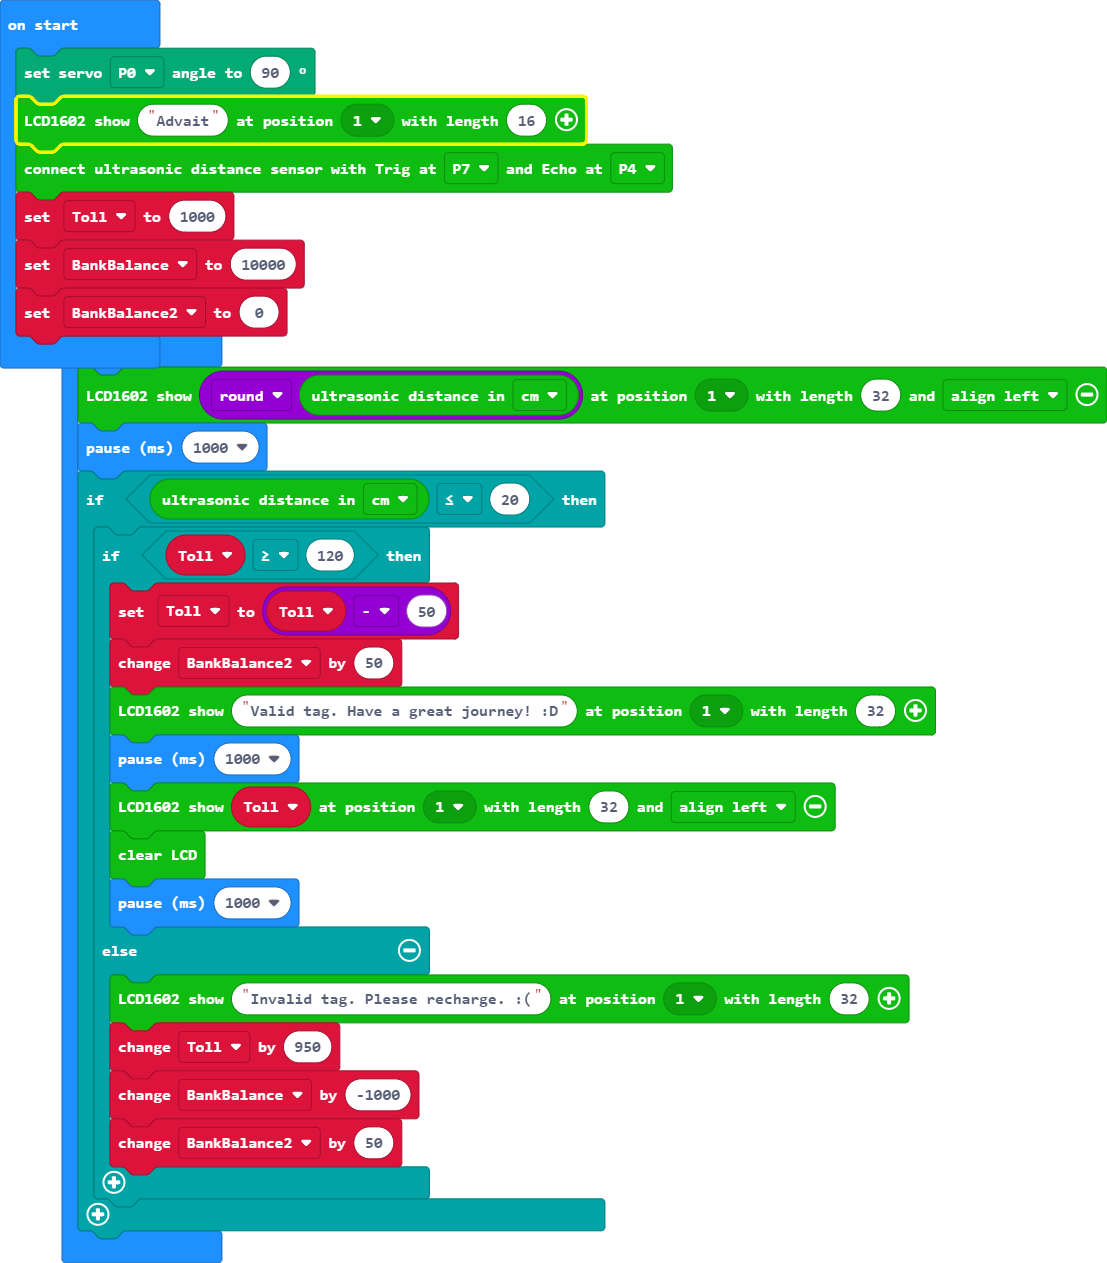
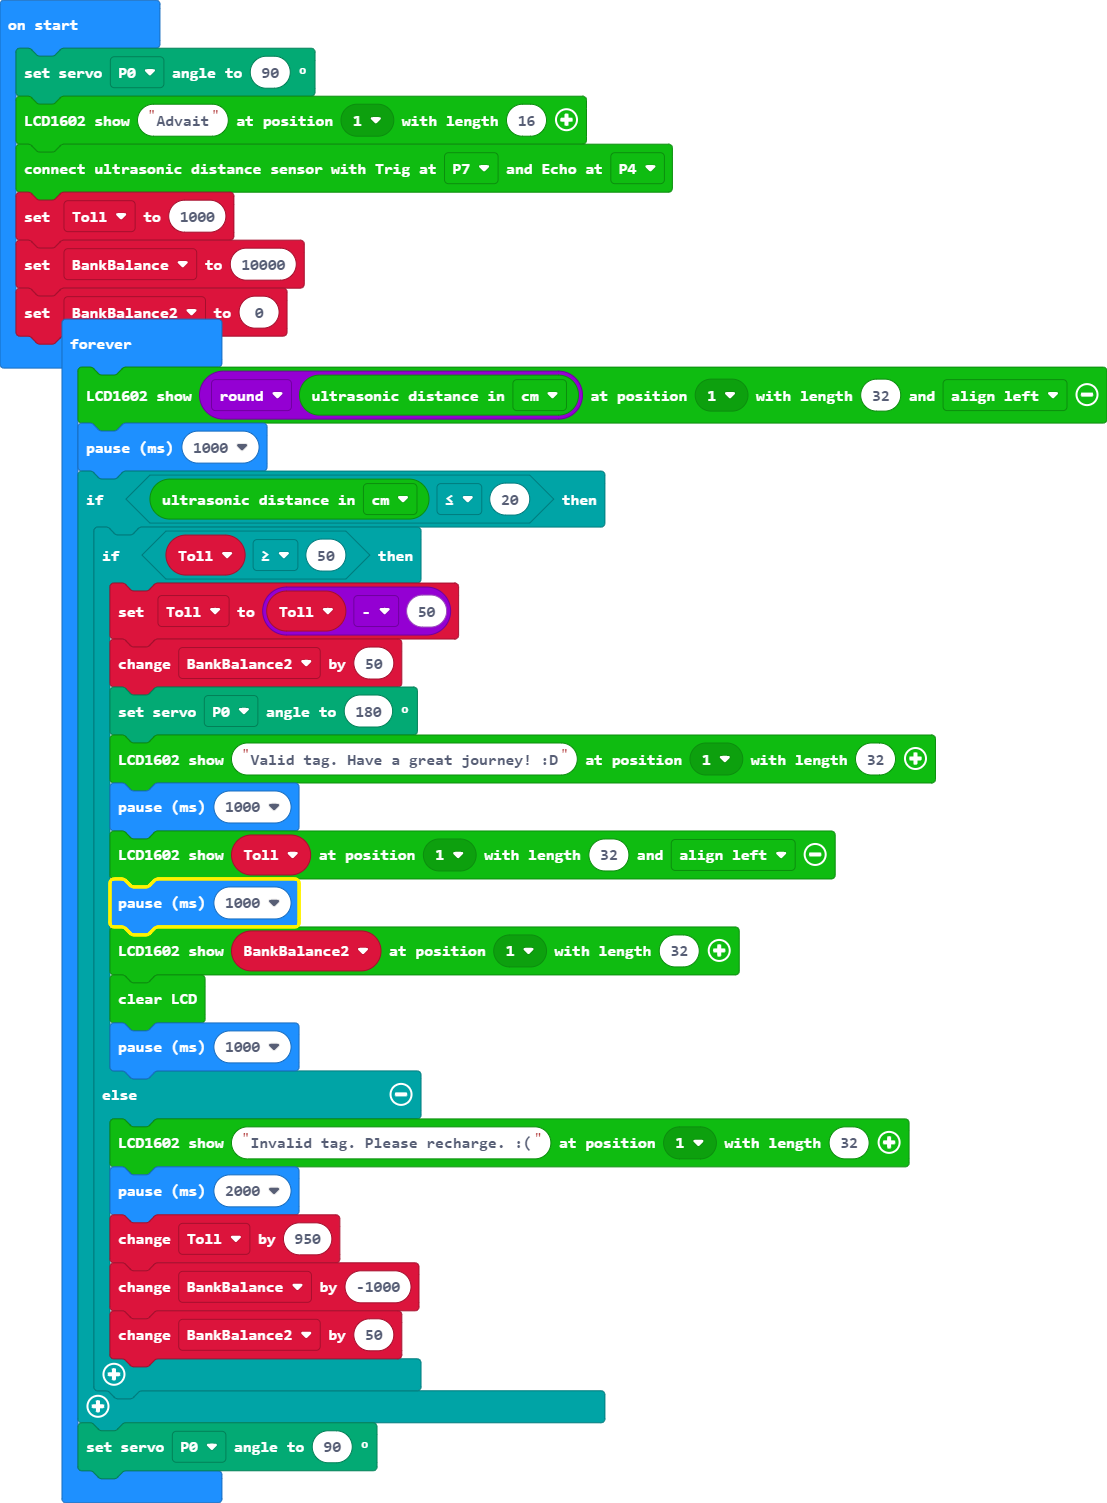
Update main.blocks, main.ts

diff --git a/main.ts b/main.ts
@@ -8,19 +8,24 @@ basic.forever(function () {
     makerbit.showStringOnLcd1602("" + (Math.round(makerbit.getUltrasonicDistance(DistanceUnit.CM))), makerbit.position1602(LcdPosition1602.Pos1), 32, TextOption.AlignLeft)
     basic.pause(1000)
     if (makerbit.getUltrasonicDistance(DistanceUnit.CM) <= 20) {
-        if (Toll >= 120) {
+        if (Toll >= 50) {
             Toll = Toll - 50
             BankBalance2 += 50
+            servos.P0.setAngle(180)
             makerbit.showStringOnLcd1602("Valid tag. Have a great journey! :D", makerbit.position1602(LcdPosition1602.Pos1), 32)
             basic.pause(1000)
             makerbit.showStringOnLcd1602("" + (Toll), makerbit.position1602(LcdPosition1602.Pos1), 32, TextOption.AlignLeft)
+            basic.pause(1000)
+            makerbit.showStringOnLcd1602("" + (BankBalance2), makerbit.position1602(LcdPosition1602.Pos1), 32)
             I2C_LCD1602.clear()
             basic.pause(1000)
         } else {
             makerbit.showStringOnLcd1602("Invalid tag. Please recharge. :(", makerbit.position1602(LcdPosition1602.Pos1), 32)
+            basic.pause(2000)
             Toll += 950
             BankBalance += -1000
             BankBalance2 += 50
         }
     }
+    servos.P0.setAngle(90)
 })
